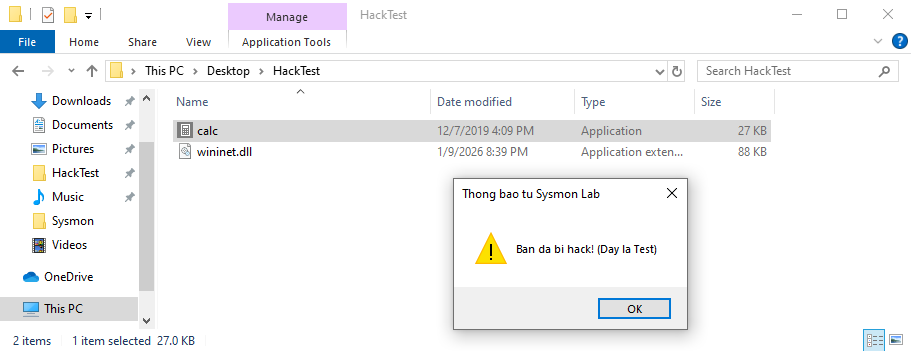
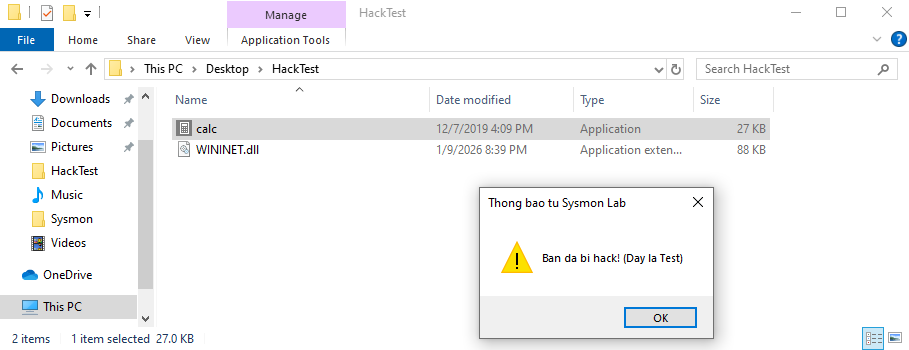
01-DDL-Hijacking

diff --git a/01-DLL-Hijacking/README.md b/01-DLL-Hijacking/README.md
@@ -21,7 +21,7 @@ I performed the following steps to simulate the attack:
 
 **Result:** Instead of opening the calculator normally, the application loaded my local DLL due to the *DLL Search Order* vulnerability.
 
-!![alt text](screenshots/attack_execution.png)
+![alt text](screenshots/attack_execution.png)
 *(Note: Replace the link above with your actual screenshot showing the folder with calc.exe and the fake DLL)*
 
 ## 4. Log Analysis (Blue Team)
@@ -34,7 +34,7 @@ After the execution, I analyzed **Sysmon Event ID 7 (Image Loaded)** to investig
 * **Signature Status:** The malicious DLL is unsigned (or signed by an untrusted entity), whereas the original system DLL is signed by Microsoft.
 
 **Evidence from Event Viewer:**
-!![alt text](screenshots/event_log_detail.png)
+![alt text](screenshots/event_log_detail.png)
 *(Note: Take a screenshot of the Event Viewer details pane showing the ImageLoaded path)*
 
 ## 5. Detection Strategy & IOCs
